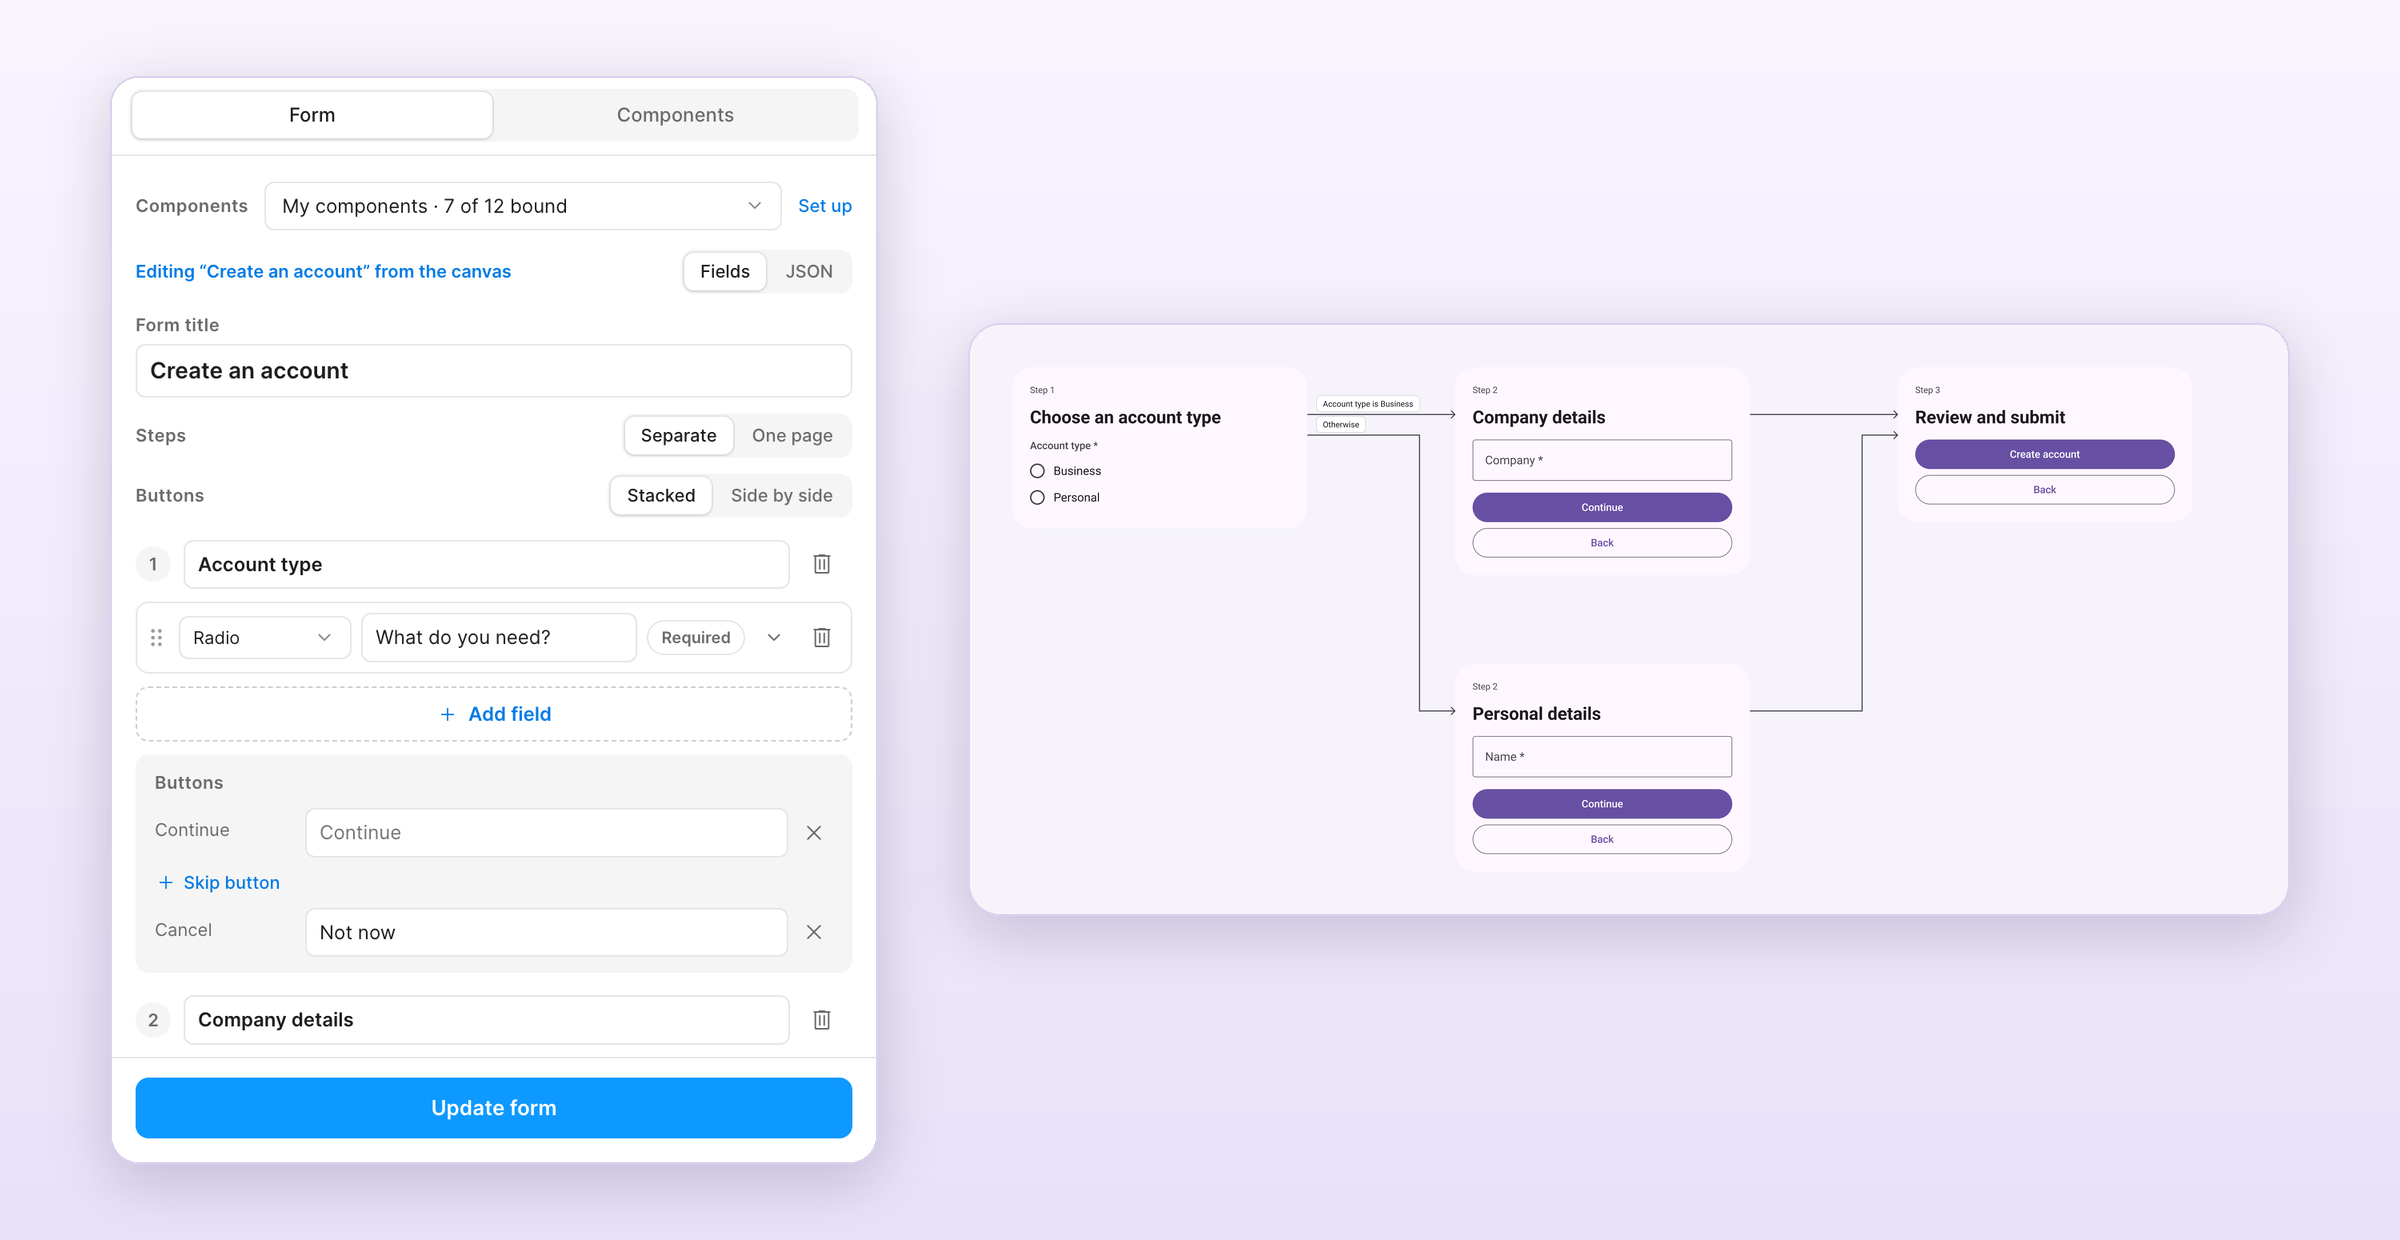
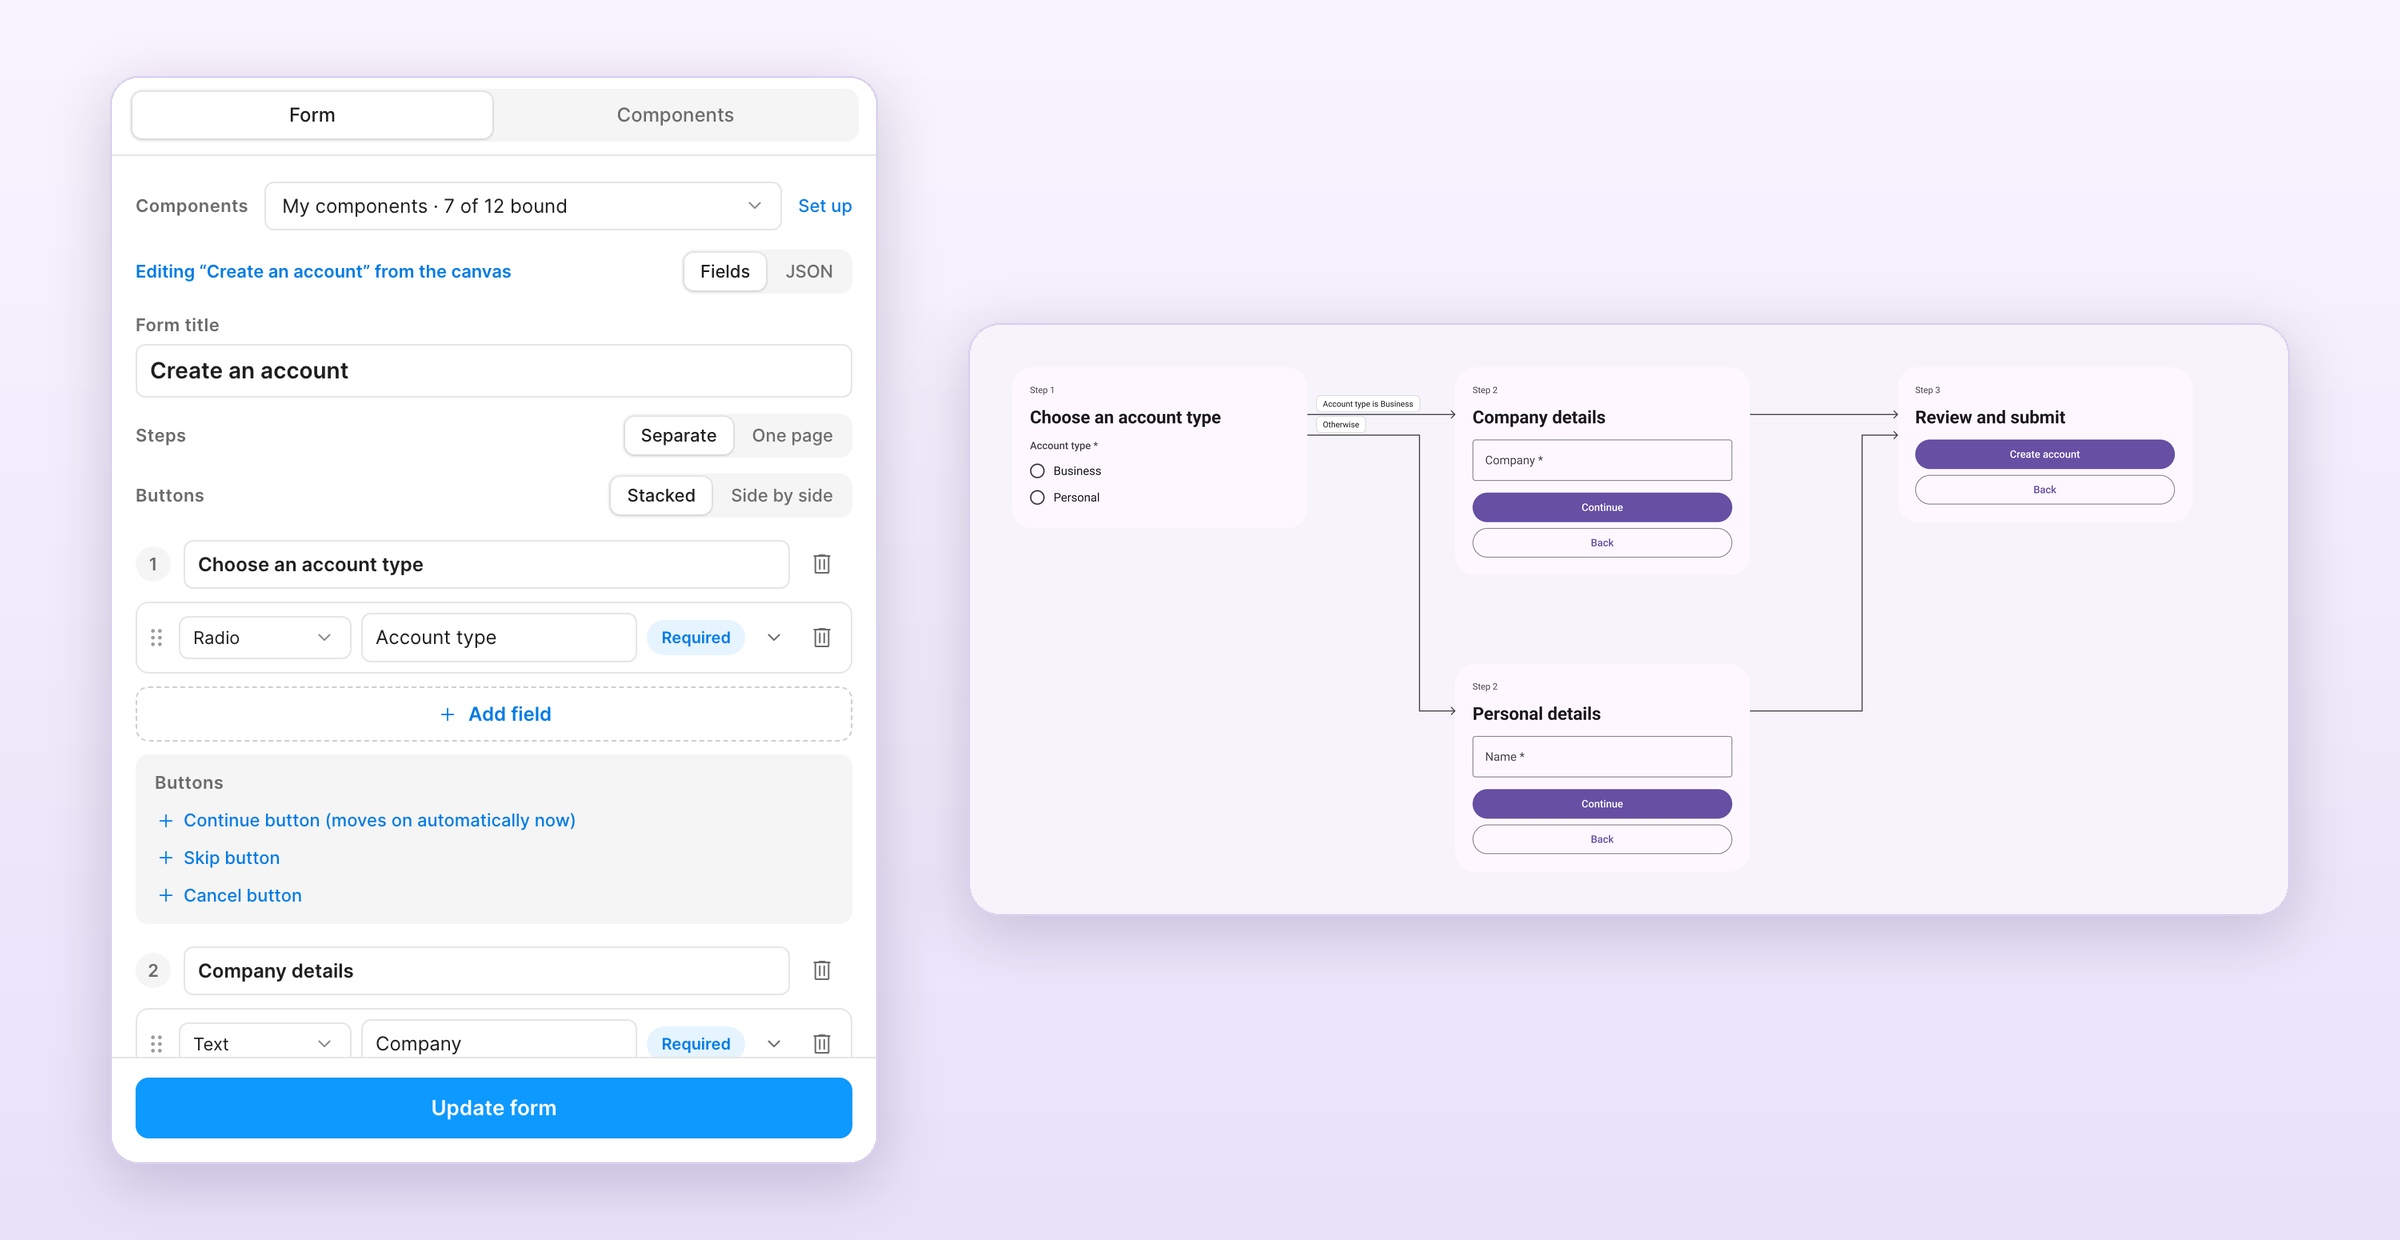
docs(figma): match the hero to the canvas and tighten flow and prototype wording

diff --git a/docs/guide/figma.md b/docs/guide/figma.md
@@ -42,11 +42,11 @@ Click **Load example** in the plugin to load a basic contact form definition, th
 
 ## Flow map
 
-Forms with [routes](/guide/steps#route-between-branches) are laid out as a flow map: one column per position on the path, an arrow per route, and a label with the route's condition. Steps are numbered by their position on the path. A step whose every route ends the form shows Submit.
+Forms with [routes](/guide/steps#route-between-branches) are laid out as a flow map: one column per position on the path and an arrow per exit, labelled with its condition. Steps are numbered by their position on the path. A step with no step after it shows Submit.
 
 ![A branching account form laid out as a flow map with labelled arrows](/figma/flow-map.png)
 
-**Update form** keeps the positions of steps you moved and redraws the arrows.
+**Update form** keeps the positions of steps you moved, redraws the arrows and rewires the prototype.
 
 ## Prototype
 
@@ -56,7 +56,7 @@ Every multi-step form is wired as a Figma prototype and added as a flow starting
 
 - Continue and Skip go to the step the routes pick when nothing is answered.
 - Back goes back.
-- Options of a radio that drives a route or advances on its own go to their own next step, so branches and steps shown only for certain answers are reachable.
+- Options of a radio that drives a route or advances on its own go to their next step.
 
 ## One page
 
@@ -102,7 +102,7 @@ Earlier versions used a JSON component map. If you saved one, the plugin turns i
 
 For each form, the plugin creates:
 
-- A card frame per step, 400px wide with auto-layout. Multi-step forms place the steps side by side.
+- A card frame per step, 400px wide with auto-layout, or one frame with a section per step in the one-page layout.
 - Instances of the bound or kit components for every field, with labels, placeholders and helper text filled in.
 - An actions group with the step's buttons.
 - A [flow map](#flow-map) for forms with routes and a [prototype](#prototype) for multi-step forms.

diff --git a/packages/figma/README.md b/packages/figma/README.md
@@ -6,6 +6,9 @@ Figma plugin that draws [Formhaus](https://github.com/ignsm/formhaus) form defin
 
 ## Install (local plugin)
 
+Not published to the Figma Community yet. Install it as a local plugin.
+
+
 1. Clone the repo: `git clone https://github.com/ignsm/formhaus.git`
 2. Build the plugin: `cd formhaus && pnpm install && pnpm --filter @formhaus/figma build`
 3. In Figma desktop: **Plugins → Development → Import plugin from manifest...**
@@ -14,8 +17,8 @@ Figma plugin that draws [Formhaus](https://github.com/ignsm/formhaus) form defin
 ## Usage
 
 1. Run **Plugins → Development → Formhaus**.
-2. On **Components**, bind your own components or keep a built-in kit.
-3. On **Form**, build the form in the editor or paste JSON, then click **Generate form**.
+2. On **Form**, pick a built-in kit or **My components**. Bind your own components on the **Components** tab.
+3. Build the form in the editor or paste JSON, then click **Generate form**.
 4. Select a generated form later to edit it and click **Update form**.
 
 Multi-step forms with routes get a flow map with labelled arrows, and every multi-step form is wired as a clickable prototype. **Steps** switches between separate screens and one page.

diff --git a/packages/figma/community/listing.md b/packages/figma/community/listing.md
@@ -18,7 +18,7 @@ Formhaus draws forms as real component instances: text fields, selects, dates, f
 - Build a form in the editor or paste a Formhaus JSON definition.
 - Multi-step forms get one frame per step, or one page with sections.
 - Forms with routes get a flow map with labelled arrows.
-- Every multi-step form is a clickable prototype: Continue, Back, Skip and branching answers lead to the right step.
+- Forms with separate screens are a clickable prototype: Continue, Back, Skip and branching answers lead to the right step.
 - Select a generated form to edit it and update it in place.
 - Save your bindings as a design system and share it with a setup code.
 
